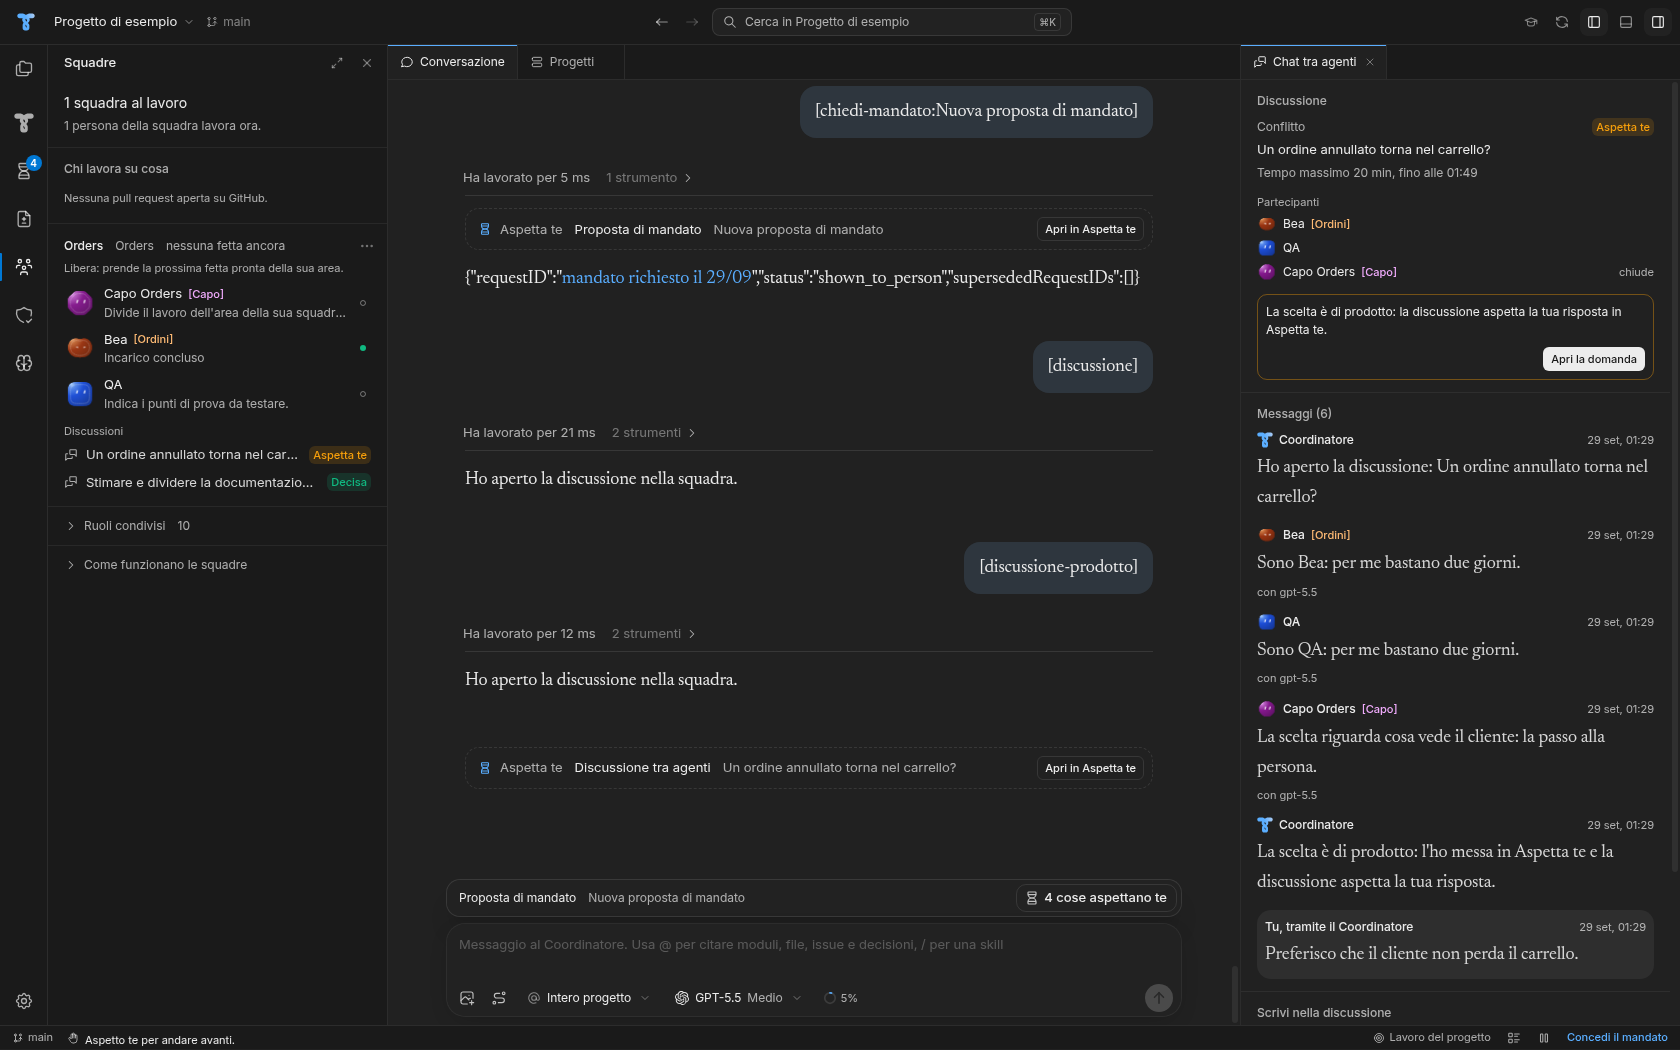
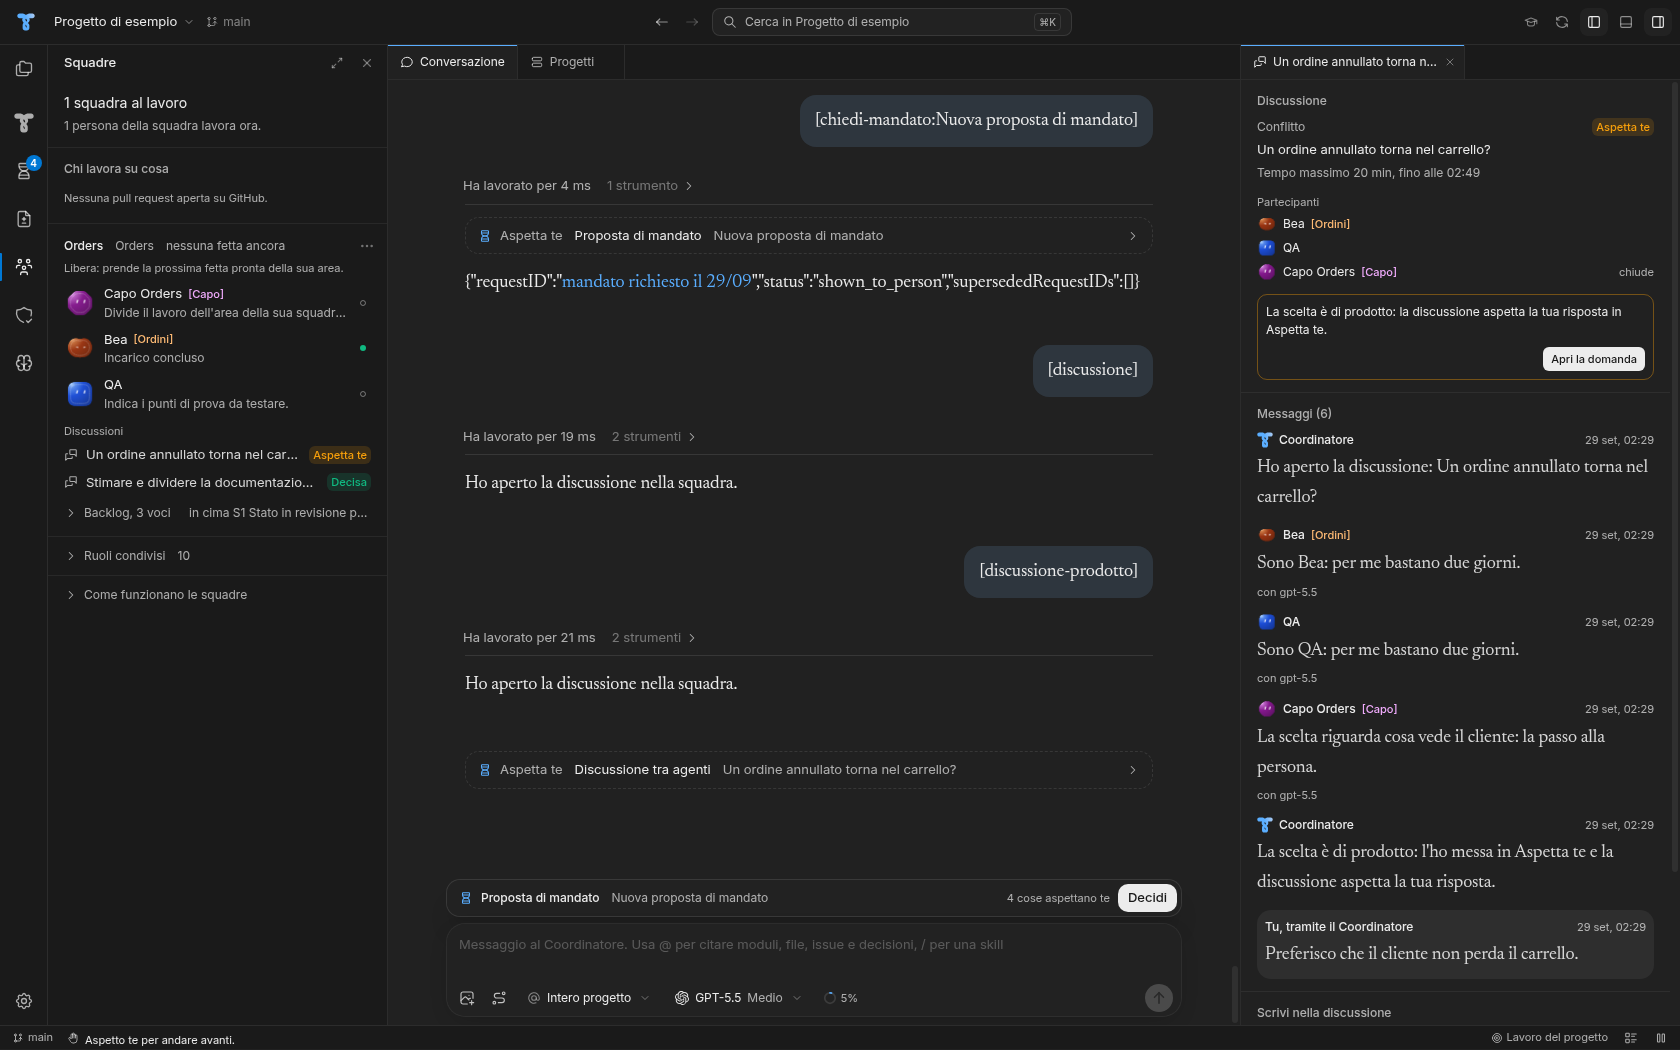
docs: refresh the A12 screenshots with the squad backlog and the named tabs
Claude-Session: https://claude.ai/code/session_012KszhSrjLDF749CCoLyQZP

diff --git a/docs/verifiche/a12-discussioni-tra-agenti-2026-09-28.md b/docs/verifiche/a12-discussioni-tra-agenti-2026-09-28.md
@@ -33,3 +33,7 @@ Non verificato: nessuna esecuzione reale di Codex. Nel catalogo del server di pr
 ## Riallineamento con B07 (#384)
 
 Dopo il merge di main con B07 la discussione si apre in una scheda dell'editor accanto alla Conversazione, come gli altri dettagli; le righe delle discussioni restano nella vista Squadre e la riga della scheda attiva è segnata. I passi `41a`-`41f` di ui-check leggono la discussione nella scheda. Le schermate dopo in `docs/images/a12/` vengono da questo giro. Risultati su main `910dbfa`: `check-inventory` senza `--write` ok, `tsc` senza errori, `vitest` 168 file e 1627 test passati (3 saltati), `npm run build` ok, `ui-check` completato con 670 schermate.
+
+## Riallineamento con A13 (#439) e titolo della scheda
+
+Dopo il merge di main con A13 ogni squadra mostra le sue discussioni e sotto il suo backlog. La scheda dell'editor di una discussione porta il suo motivo come titolo, con l'id sul passaggio del mouse, così due discussioni aperte si distinguono; ui-check lo controlla nei passi `41b` e `41e`. Le schermate dopo in `docs/images/a12/` vengono da questo giro. Risultati su main `c551dcb`: `check-inventory` senza `--write` ok, `tsc` senza errori, `vitest` 171 file e 1646 test passati (3 saltati), `npm run build` ok, `ui-check` completato con 697 schermate.
